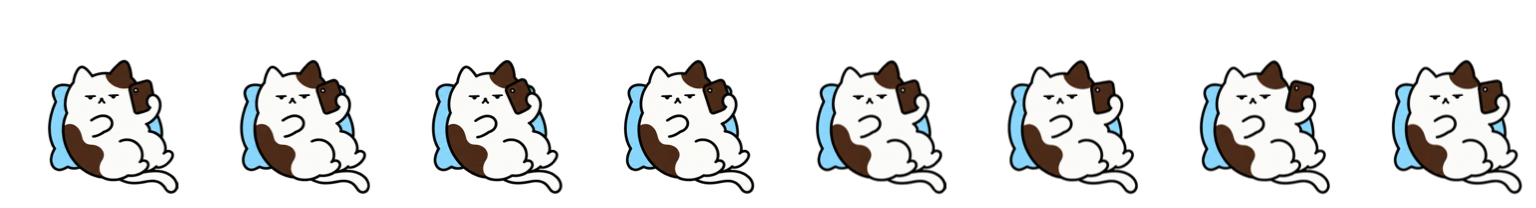
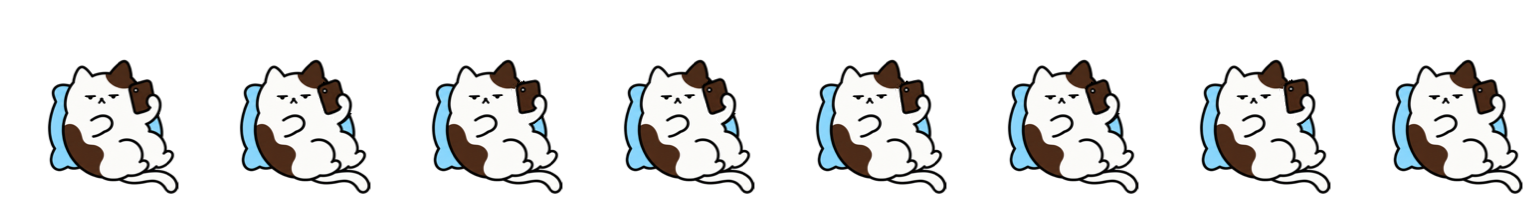
로그인 시 자동 실행 추가, 승인 대기 폰 흔들기 그림 보정판 반영 (맥·윈도우)
- Mac: SMAppService 로그인 항목 등록, 메뉴 '로그인 시 자동 실행' (기본 켜짐)
- Windows: HKCU Run 키 등록, 트레이 'Windows 시작 시 자동 실행' (기본 켜짐), 제거 시 값 삭제
- approval-phone.png를 ddots 19ff417판으로 교체: 고개·몸은 고정, 폰과 앞발만 흔듦

diff --git a/Sources/App.swift b/Sources/App.swift
@@ -107,7 +107,7 @@ final class AppDelegate: NSObject, NSApplicationDelegate, NSWindowDelegate {
         }
         refreshUsage()
         timer = Timer.scheduledTimer(withTimeInterval: 2, repeats: true) { [weak self] _ in self?.refresh() }
-        if !smokeMode { updates.start() }
+        if !smokeMode { updates.start(); LaunchAtLogin.apply() }
         if CommandLine.arguments.contains("--show-dashboard") { showDashboard() }
         if let index = CommandLine.arguments.firstIndex(of: "--ui-smoke"), CommandLine.arguments.count > index + 1 {
             let destination = URL(fileURLWithPath: CommandLine.arguments[index + 1])
@@ -203,6 +203,8 @@ final class AppDelegate: NSObject, NSApplicationDelegate, NSWindowDelegate {
         addMenu("업데이트 확인…", #selector(checkForUpdates))
         addMenu("업데이트 자동 확인", #selector(toggleAutomaticUpdates(_:)))
         menu.items.last?.state = updates.automatic ? .on : .off
+        addMenu("로그인 시 자동 실행", #selector(toggleLaunchAtLogin(_:)))
+        menu.items.last?.state = LaunchAtLogin.enabled ? .on : .off
         menu.addItem(.separator())
         addMenu("AIpet 종료", #selector(quit))
         statusItem.menu = menu
@@ -447,6 +449,9 @@ final class AppDelegate: NSObject, NSApplicationDelegate, NSWindowDelegate {
     @objc func checkForUpdates() { updates.check(manual: true) }
     @objc func toggleAutomaticUpdates(_ sender: NSMenuItem) {
         updates.automatic.toggle(); sender.state = updates.automatic ? .on : .off
+    }
+    @objc func toggleLaunchAtLogin(_ sender: NSMenuItem) {
+        LaunchAtLogin.enabled.toggle(); sender.state = LaunchAtLogin.enabled ? .on : .off
     }
     func applicationWillTerminate(_ notification: Notification) { updates.stop() }
 

diff --git a/Sources/LaunchAtLogin.swift b/Sources/LaunchAtLogin.swift
@@ -1,0 +1,23 @@
+import Foundation
+import ServiceManagement
+
+/// Opens the pet when the user logs in. On by default; the menu switch is the user's choice and is kept across launches.
+enum LaunchAtLogin {
+    static let settingsKey = "launchAtLogin"
+
+    static var enabled: Bool {
+        get { UserDefaults.standard.object(forKey: settingsKey) == nil ? true : UserDefaults.standard.bool(forKey: settingsKey) }
+        set { UserDefaults.standard.set(newValue, forKey: settingsKey); apply() }
+    }
+
+    /// Registers or removes this bundle as a login item. Registering again also follows the app to its current location.
+    static func apply() {
+        let service = SMAppService.mainApp
+        do {
+            if enabled { if service.status != .enabled { try service.register() } }
+            else if service.status == .enabled { try service.unregister() }
+        } catch {
+            NSLog("AIpet login item update failed: \(error.localizedDescription)")
+        }
+    }
+}

diff --git a/windows/src/AIpet.App/PetApplication.cs b/windows/src/AIpet.App/PetApplication.cs
@@ -50,6 +50,7 @@ public sealed class PetApplication : Application
         {
             atlas = new SpriteAtlas(); updates = new AppUpdater(Quit); BuildTray(); CreatePet(); UpdatePet();
             new CopyLocations(CopyLocations.DefaultPath).Add(new WindowsCopies().CurrentPath);
+            StartupRegistration.Apply(settings.LaunchAtLogin);
         }
         catch (Exception error) { Program.Errors.Append(error); MessageBox.Show(error.Message, "AIpet"); quitting = true; Shutdown(1); return; }
         guardTimer = new DispatcherTimer { Interval = TimeSpan.FromSeconds(1) };
@@ -173,6 +174,9 @@ public sealed class PetApplication : Application
         var automaticUpdates = new Forms.ToolStripMenuItem("업데이트 자동 확인") { Checked = updates.Automatic, CheckOnClick = true };
         automaticUpdates.Click += (_, _) => updates.Automatic = automaticUpdates.Checked;
         menu.Items.Add(automaticUpdates);
+        var launchAtLogin = new Forms.ToolStripMenuItem("Windows 시작 시 자동 실행") { Checked = settings.LaunchAtLogin, CheckOnClick = true };
+        launchAtLogin.Click += (_, _) => { settings = settings with { LaunchAtLogin = launchAtLogin.Checked }; Save(); StartupRegistration.Apply(launchAtLogin.Checked); };
+        menu.Items.Add(launchAtLogin);
         menu.Items.Add(new Forms.ToolStripSeparator()); Item("AIpet 종료", Quit);
         using var resource = GetResourceStream(new Uri("pack://application:,,,/AIpet;component/Assets/Generated/AIpet.ico")).Stream;
         using var icon = new System.Drawing.Icon(resource);

diff --git a/windows/src/AIpet.App/StartupRegistration.cs b/windows/src/AIpet.App/StartupRegistration.cs
@@ -1,0 +1,21 @@
+using Microsoft.Win32;
+namespace AIpet.App;
+/// Starts the pet when the user signs in, through the per-user Run key (no administrator rights needed).
+public static class StartupRegistration
+{
+    private const string RunKey = @"Software\Microsoft\Windows\CurrentVersion\Run";
+    private const string ValueName = "AIpet";
+    /// Writing on every launch keeps the entry pointed at the copy that is actually running.
+    public static void Apply(bool enabled)
+    {
+        try
+        {
+            using var key = Registry.CurrentUser.CreateSubKey(RunKey, true);
+            if (!enabled) { key.DeleteValue(ValueName, false); return; }
+            if (Environment.ProcessPath is not { } path) return;
+            var command = $"\"{path}\"";
+            if (key.GetValue(ValueName) as string != command) key.SetValue(ValueName, command);
+        }
+        catch (Exception error) { Program.Errors.Append(error); }
+    }
+}

diff --git a/windows/tests/AIpet.Core.Tests/UsageSourceTests.cs b/windows/tests/AIpet.Core.Tests/UsageSourceTests.cs
@@ -160,4 +160,12 @@ public sealed class UsageSourceTests : TestSupport
         store.Save(new(ClaudeUsageDirectEnabled: true, CodexPath: @"C:\example\codex.cmd"));
         Assert.True(store.Load().ClaudeUsageDirectEnabled); Assert.Equal(@"C:\example\codex.cmd", store.Load().CodexPath);
     }
+    [Fact]
+    public void LaunchAtLoginDefaultsOnForOlderSettingsAndPersistsOff()
+    {
+        var path = Path.Combine(Root, "launch", "settings.json"); Directory.CreateDirectory(Path.GetDirectoryName(path)!);
+        File.WriteAllText(path, "{\"petName\":\"태식이\",\"petScale\":120}");
+        var store = new SettingsStore(path); Assert.True(store.Load().LaunchAtLogin); Assert.Equal(120, store.Load().PetScale);
+        store.Save(store.Load() with { LaunchAtLogin = false }); Assert.False(store.Load().LaunchAtLogin);
+    }
 }

diff --git a/windows/src/AIpet.Core/SettingsStore.cs b/windows/src/AIpet.Core/SettingsStore.cs
@@ -2,7 +2,8 @@ using System.Text.Json;
 namespace AIpet.Core;
 
 public sealed record PetSettings(string PetName = PetIdentity.DefaultName, double PetScale = 100,
-    Point? Position = null, bool BubbleAlwaysShown = false, bool ClaudeUsageDirectEnabled = false, string? CodexPath = null)
+    Point? Position = null, bool BubbleAlwaysShown = false, bool ClaudeUsageDirectEnabled = false, string? CodexPath = null,
+    bool LaunchAtLogin = true)
 {
     public PetSettings Validated() => this with {
         PetName = PetName is not null && PetIdentity.ValidationMessage(PetName) is null ? PetIdentity.Normalized(PetName) : PetIdentity.DefaultName,

diff --git a/scripts/prepare_assets.py b/scripts/prepare_assets.py
@@ -14,7 +14,7 @@ WAVE = 'b0beffe97a9e093f92a56009ec341c924b9e4e49c36f8ff295e0ef4a7a9ea1ba'
 # The idle pose asleep and nodding, drawn by draw_doze.py and pinned the same way.
[1 lines of base64/hex data omitted]
 
[2 lines of base64/hex data omitted]
 
 def prepare():
     source = PET / 'spritesheet.webp'

diff --git a/windows/scripts/prepare_assets.py b/windows/scripts/prepare_assets.py
@@ -13,7 +13,7 @@ EXPECTED = '316b98b0445cdf0ac50dda91128e5772366f49787a4634addbfb1409c99dca35'
[2 lines of base64/hex data omitted]
 
[2 lines of base64/hex data omitted]
 
 def prepare():
     source = PET / 'spritesheet.webp'

diff --git a/windows/README.md b/windows/README.md
@@ -43,6 +43,7 @@ ZIP은 설치 없이 사용할 수 있습니다. 다른 위치 또는 버전의 
 - 펫 클릭: 작업 목록. 드래그: 이동. 오른쪽 클릭: 메뉴.
 - 트레이 아이콘 왼쪽 클릭: 숨겨지거나 사라진 펫 다시 표시. 더블 클릭: 작업 목록. 오른쪽 클릭: 메뉴.
 - 종료: 오른쪽 클릭 또는 트레이 메뉴의 **AIpet 종료**.
+- 자동 실행: 기본으로 Windows에 로그인하면 펫이 자동으로 실행됩니다. 트레이 메뉴의 **Windows 시작 시 자동 실행**으로 끄고 켭니다. `HKCU\Software\Microsoft\Windows\CurrentVersion\Run`의 `AIpet` 값을 사용하며, 설치 프로그램으로 제거하면 함께 지워집니다.
 - 설정: `%APPDATA%\AIpet\settings.json`
 - 창 진단: `%LOCALAPPDATA%\AIpet\window.log` (최대 256 KiB). 펫이 사라지는 문제가 다시 나오면 이 파일을 전달해 주세요.
 - 오류 기록: `%LOCALAPPDATA%\AIpet\error.log` (최대 1 MiB, 오래된 내용부터 새로 시작).
